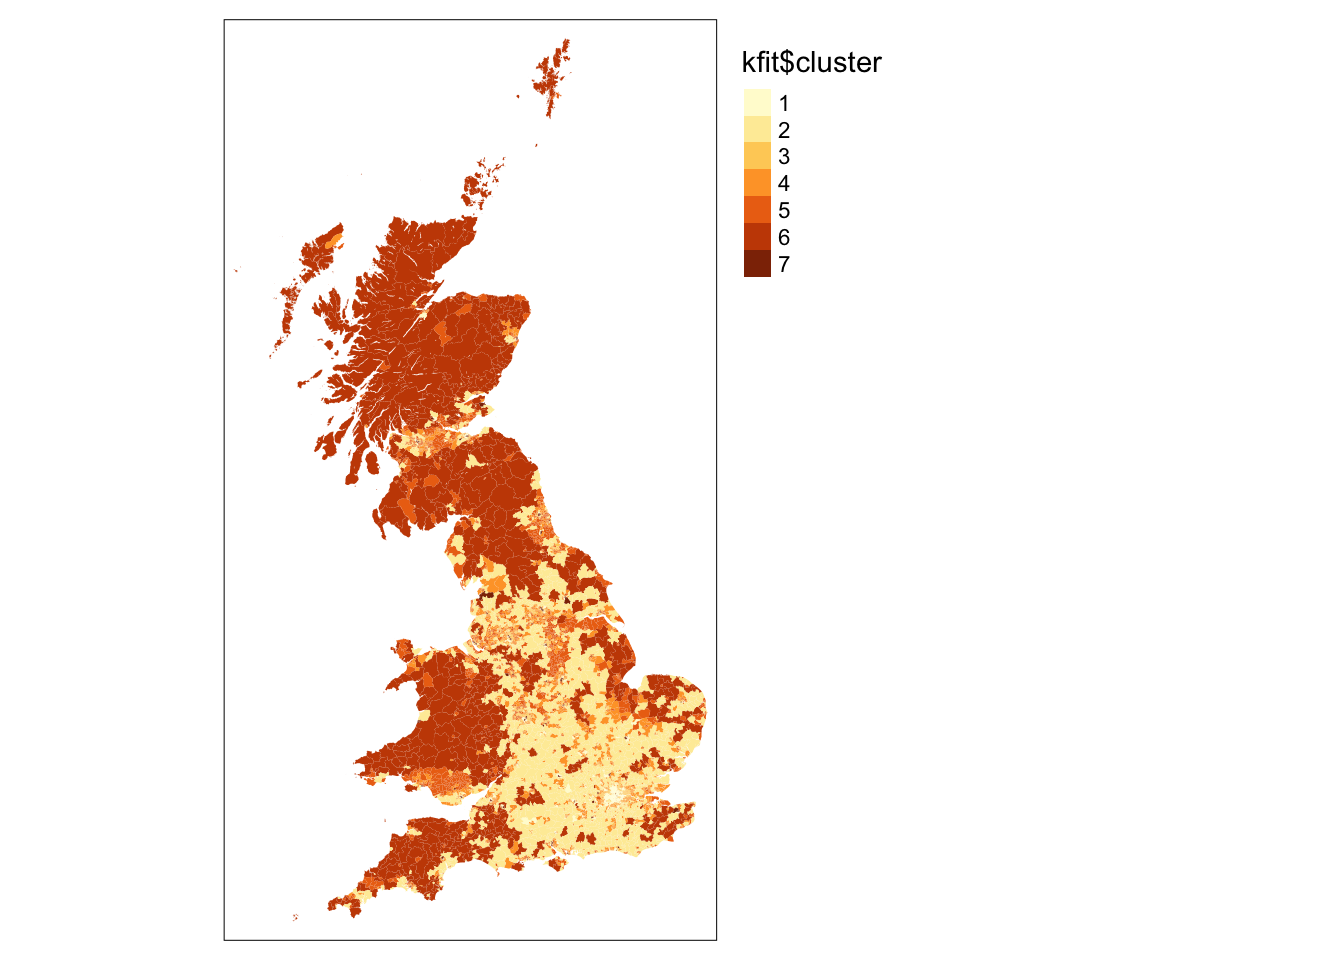
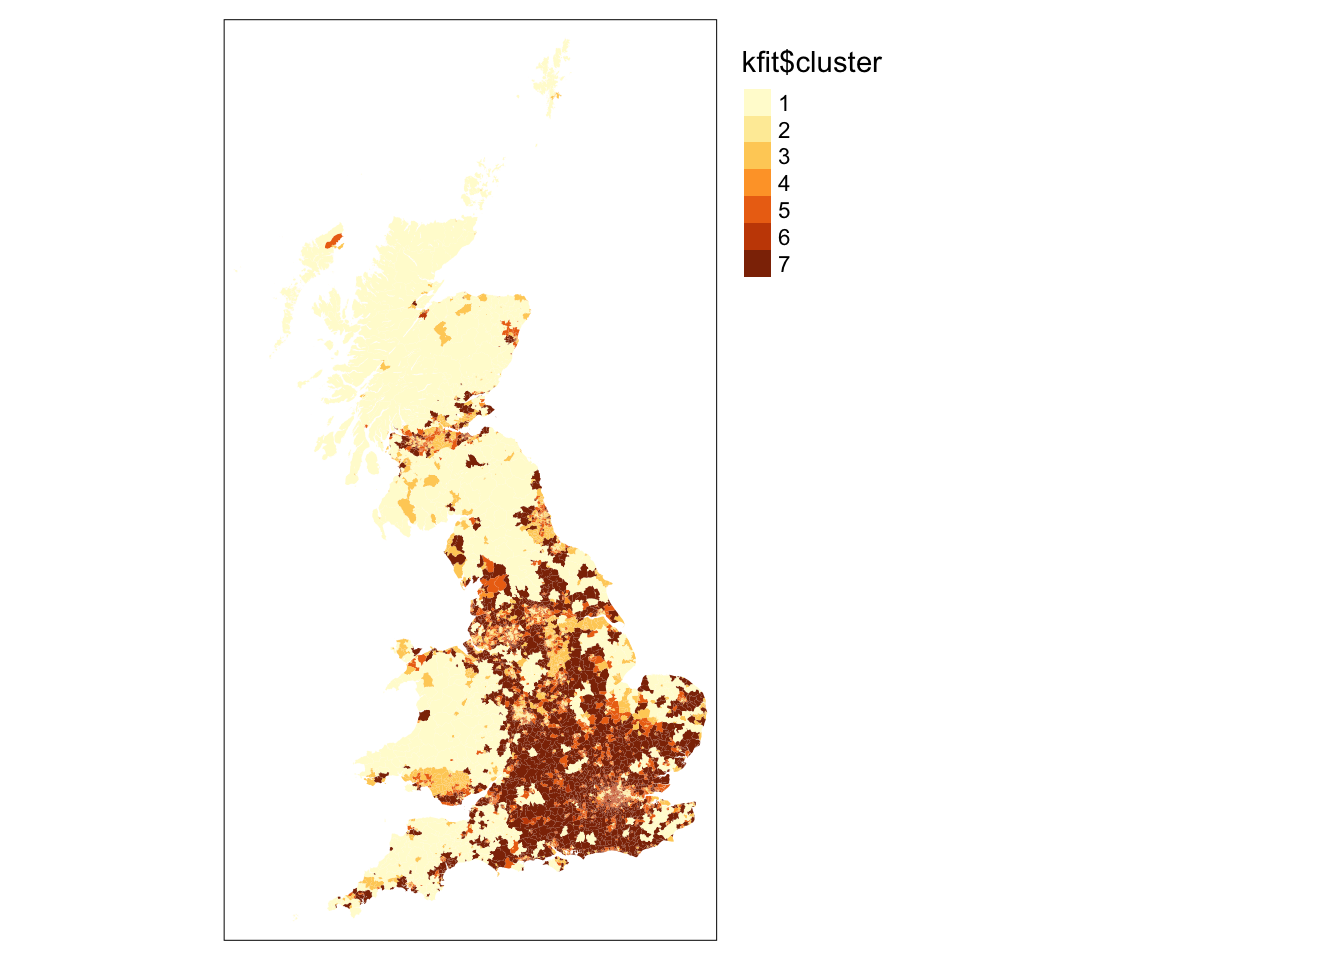
update code layout plots

Changed region(s): [[0.1875, 0.1562, 0.5312, 0.9688], [0.375, 0.0312, 0.4375, 0.125]]

diff --git a/docs/01-geodemographics.html b/docs/01-geodemographics.html
@@ -730,12 +730,16 @@ First 10 features:
 <span id="cb22-6"><a href="#cb22-6" aria-hidden="true" tabindex="-1"></a></span>
 <span id="cb22-7"><a href="#cb22-7" aria-hidden="true" tabindex="-1"></a><span class="co"># add cluster numbers</span></span>
 <span id="cb22-8"><a href="#cb22-8" aria-hidden="true" tabindex="-1"></a>wss_values<span class="sc">$</span>cluster <span class="ot">&lt;-</span> <span class="fu">seq.int</span>(<span class="fu">nrow</span>(wss_values))</span>
-<span id="cb22-9"><a href="#cb22-9" aria-hidden="true" tabindex="-1"></a><span class="fu">names</span>(wss_values) <span class="ot">&lt;-</span> <span class="fu">c</span>(<span class="st">"wss"</span>, <span class="st">"cluster"</span>)</span>
+<span id="cb22-9"><a href="#cb22-9" aria-hidden="true" tabindex="-1"></a><span class="fu">names</span>(wss_values) <span class="ot">&lt;-</span> <span class="fu">c</span>(<span class="st">'wss'</span>,<span class="st">'cluster'</span>)</span>
 <span id="cb22-10"><a href="#cb22-10" aria-hidden="true" tabindex="-1"></a></span>
 <span id="cb22-11"><a href="#cb22-11" aria-hidden="true" tabindex="-1"></a><span class="co"># plot using ggplot2</span></span>
-<span id="cb22-12"><a href="#cb22-12" aria-hidden="true" tabindex="-1"></a><span class="fu">ggplot</span>(<span class="at">data =</span> wss_values, <span class="fu">aes</span>(<span class="at">x =</span> cluster, <span class="at">y =</span> wss)) <span class="sc">+</span> <span class="fu">geom_point</span>() <span class="sc">+</span> <span class="fu">geom_path</span>() <span class="sc">+</span></span>
-<span id="cb22-13"><a href="#cb22-13" aria-hidden="true" tabindex="-1"></a>    <span class="fu">scale_x_continuous</span>(<span class="at">breaks =</span> <span class="fu">seq</span>(<span class="dv">1</span>, <span class="dv">15</span>)) <span class="sc">+</span> <span class="fu">xlab</span>(<span class="st">"Number of clusters"</span>) <span class="sc">+</span> <span class="fu">ylab</span>(<span class="st">"Within sum of squares"</span>) <span class="sc">+</span></span>
-<span id="cb22-14"><a href="#cb22-14" aria-hidden="true" tabindex="-1"></a>    <span class="fu">theme_minimal</span>()</span></code><button title="Copy to Clipboard" class="code-copy-button"><i class="bi"></i></button></pre></div>
+<span id="cb22-12"><a href="#cb22-12" aria-hidden="true" tabindex="-1"></a><span class="fu">ggplot</span>(<span class="at">data=</span>wss_values, <span class="fu">aes</span>(<span class="at">x=</span>cluster,<span class="at">y=</span>wss)) <span class="sc">+</span></span>
+<span id="cb22-13"><a href="#cb22-13" aria-hidden="true" tabindex="-1"></a>  <span class="fu">geom_point</span>() <span class="sc">+</span></span>
+<span id="cb22-14"><a href="#cb22-14" aria-hidden="true" tabindex="-1"></a>  <span class="fu">geom_path</span>() <span class="sc">+</span> </span>
+<span id="cb22-15"><a href="#cb22-15" aria-hidden="true" tabindex="-1"></a>  <span class="fu">scale_x_continuous</span>(<span class="at">breaks=</span><span class="fu">seq</span>(<span class="dv">1</span>,<span class="dv">15</span>)) <span class="sc">+</span></span>
+<span id="cb22-16"><a href="#cb22-16" aria-hidden="true" tabindex="-1"></a>  <span class="fu">xlab</span>(<span class="st">'Number of clusters'</span>) <span class="sc">+</span></span>
+<span id="cb22-17"><a href="#cb22-17" aria-hidden="true" tabindex="-1"></a>  <span class="fu">ylab</span>(<span class="st">'Within sum of squares'</span>) <span class="sc">+</span></span>
+<span id="cb22-18"><a href="#cb22-18" aria-hidden="true" tabindex="-1"></a>  <span class="fu">theme_minimal</span>()</span></code><button title="Copy to Clipboard" class="code-copy-button"><i class="bi"></i></button></pre></div>
 </div>
 <div class="cell-output-display">
 <div id="fig-geo-variables-that-cluster" class="quarto-figure quarto-figure-center anchored">
@@ -803,7 +807,7 @@ First 10 features:
 <div class="sourceCode cell-code" id="cb25"><pre class="sourceCode r code-with-copy"><code class="sourceCode r"><span id="cb25-1"><a href="#cb25-1" aria-hidden="true" tabindex="-1"></a><span class="co"># inspect</span></span>
 <span id="cb25-2"><a href="#cb25-2" aria-hidden="true" tabindex="-1"></a>clusters</span></code><button title="Copy to Clipboard" class="code-copy-button"><i class="bi"></i></button></pre></div>
 <div class="cell-output cell-output-stdout">
-<pre><code>K-means clustering with 7 clusters of sizes 740, 1814, 1107, 2039, 2053, 541, 186
+<pre><code>K-means clustering with 7 clusters of sizes 541, 1107, 2053, 186, 2039, 740, 1814
 
 Cluster means:
      age0to4pc  age5to14pc age16to24pc age25to44pc age45to64pc age75pluspc
@@ -813,11 +817,11 @@ Cluster means:
  [ reached getOption("max.print") -- omitted 7 rows ]
 
 Clustering vector:
-[1] 1 3 4 4 3
+[1] 6 2 5 5 2
  [ reached getOption("max.print") -- omitted 8475 entries ]
 
 Within cluster sum of squares by cluster:
-[1]  7786.692 12871.008  9429.647 11471.872 11736.830
+[1]  6265.986  9429.647 11736.830  3401.821 11471.872
  [ reached getOption("max.print") -- omitted 2 entries ]
  (between_SS / total_SS =  56.3 %)
 
@@ -843,7 +847,7 @@ Available components:
 <span id="cb27-8"><a href="#cb27-8" aria-hidden="true" tabindex="-1"></a>kfit_size</span></code><button title="Copy to Clipboard" class="code-copy-button"><i class="bi"></i></button></pre></div>
 </div>
 <div class="cell-output cell-output-stdout">
-<pre><code>[1]  740 1814 1107 2039 2053
+<pre><code>[1]  541 1107 2053  186 2039
  [ reached getOption("max.print") -- omitted 2 entries ]</code></pre>
 </div>
 <div class="sourceCode cell-code" id="cb29"><pre class="sourceCode r code-with-copy"><code class="sourceCode r"><span id="cb29-1"><a href="#cb29-1" aria-hidden="true" tabindex="-1"></a><span class="co"># mean values for each variable in each cluster</span></span>
@@ -856,13 +860,13 @@ Available components:
 <pre><code># A tibble: 7 × 18
   cluster age0to4pc age5to14pc age16to…¹ age25…² age45…³ age75…⁴ 1_hig…⁵ 2_low…⁶
     &lt;int&gt;     &lt;dbl&gt;      &lt;dbl&gt;     &lt;dbl&gt;   &lt;dbl&gt;   &lt;dbl&gt;   &lt;dbl&gt;   &lt;dbl&gt;   &lt;dbl&gt;
-1       1   0.326      -0.923     0.209   2.05   -1.23    -0.927  1.50     1.26 
-2       2  -0.679      -0.0412   -0.465  -0.773   0.765    0.856  0.845    0.893
-3       3   1.56        1.14      0.381   0.626  -1.13    -0.954 -0.906   -1.26 
-4       4   0.0162      0.118    -0.172   0.0189  0.202   -0.103 -0.0481   0.211
-5       5  -0.00815    -0.0824   -0.0526 -0.158   0.0919   0.164 -0.837   -0.849
-6       6  -0.880      -0.148    -0.523  -0.998   1.22     0.554  0.0251   0.225
-7       7  -1.52       -2.68      5.42    0.113  -2.62    -1.28   0.870    0.223
+1       1  -0.880      -0.148    -0.523  -0.998   1.22     0.554  0.0251   0.225
+2       2   1.56        1.14      0.381   0.626  -1.13    -0.954 -0.906   -1.26 
+3       3  -0.00815    -0.0824   -0.0526 -0.158   0.0919   0.164 -0.837   -0.849
+4       4  -1.52       -2.68      5.42    0.113  -2.62    -1.28   0.870    0.223
+5       5   0.0162      0.118    -0.172   0.0189  0.202   -0.103 -0.0481   0.211
+6       6   0.326      -0.923     0.209   2.05   -1.23    -0.927  1.50     1.26 
+7       7  -0.679      -0.0412   -0.465  -0.773   0.765    0.856  0.845    0.893
 # … with 9 more variables: `3_intermediate_occupations` &lt;dbl&gt;,
 #   `4_employers_small_org` &lt;dbl&gt;, `5_lower_supervisory` &lt;dbl&gt;,
 #   `6_semi_routine` &lt;dbl&gt;, `7_routine` &lt;dbl&gt;, `8_unemployed` &lt;dbl&gt;,
@@ -877,13 +881,17 @@ Available components:
 <pre><strong>R code</strong></pre>
 </div>
 <div class="sourceCode cell-code" id="cb31"><pre class="sourceCode r code-with-copy"><code class="sourceCode r"><span id="cb31-1"><a href="#cb31-1" aria-hidden="true" tabindex="-1"></a><span class="co"># transform shape to tidy format</span></span>
-<span id="cb31-2"><a href="#cb31-2" aria-hidden="true" tabindex="-1"></a>kfit_mean_long <span class="ot">&lt;-</span> <span class="fu">pivot_longer</span>(kfit_mean, <span class="at">cols =</span> (<span class="sc">-</span>cluster))</span>
+<span id="cb31-2"><a href="#cb31-2" aria-hidden="true" tabindex="-1"></a>kfit_mean_long <span class="ot">&lt;-</span> <span class="fu">pivot_longer</span>(kfit_mean, <span class="at">cols=</span>(<span class="sc">-</span>cluster))</span>
 <span id="cb31-3"><a href="#cb31-3" aria-hidden="true" tabindex="-1"></a></span>
-<span id="cb31-4"><a href="#cb31-4" aria-hidden="true" tabindex="-1"></a><span class="co"># plot using ggplot2</span></span>
-<span id="cb31-5"><a href="#cb31-5" aria-hidden="true" tabindex="-1"></a><span class="fu">ggplot</span>(kfit_mean_long, <span class="fu">aes</span>(<span class="at">x =</span> cluster, <span class="at">y =</span> value, <span class="at">fill =</span> name)) <span class="sc">+</span> <span class="fu">geom_bar</span>(<span class="at">stat =</span> <span class="st">"identity"</span>,</span>
-<span id="cb31-6"><a href="#cb31-6" aria-hidden="true" tabindex="-1"></a>    <span class="at">position =</span> <span class="st">"dodge"</span>) <span class="sc">+</span> <span class="fu">scale_x_continuous</span>(<span class="at">breaks =</span> <span class="fu">seq</span>(<span class="dv">1</span>, <span class="dv">7</span>, <span class="at">by =</span> <span class="dv">1</span>)) <span class="sc">+</span> <span class="fu">xlab</span>(<span class="st">"Cluster"</span>) <span class="sc">+</span></span>
-<span id="cb31-7"><a href="#cb31-7" aria-hidden="true" tabindex="-1"></a>    <span class="fu">ylab</span>(<span class="st">"Mean value"</span>) <span class="sc">+</span> <span class="fu">theme_minimal</span>() <span class="sc">+</span> <span class="fu">theme</span>(<span class="at">legend.title =</span> <span class="fu">element_blank</span>(),</span>
-<span id="cb31-8"><a href="#cb31-8" aria-hidden="true" tabindex="-1"></a>    <span class="at">legend.position =</span> <span class="st">"bottom"</span>)</span></code><button title="Copy to Clipboard" class="code-copy-button"><i class="bi"></i></button></pre></div>
+<span id="cb31-4"><a href="#cb31-4" aria-hidden="true" tabindex="-1"></a><span class="co"># plot using ggplot2  </span></span>
+<span id="cb31-5"><a href="#cb31-5" aria-hidden="true" tabindex="-1"></a><span class="fu">ggplot</span>(kfit_mean_long, <span class="fu">aes</span>(<span class="at">x=</span>cluster, <span class="at">y=</span>value, <span class="at">fill=</span>name)) <span class="sc">+</span> </span>
+<span id="cb31-6"><a href="#cb31-6" aria-hidden="true" tabindex="-1"></a>  <span class="fu">geom_bar</span>(<span class="at">stat=</span><span class="st">'identity'</span>, <span class="at">position=</span><span class="st">"dodge"</span>) <span class="sc">+</span></span>
+<span id="cb31-7"><a href="#cb31-7" aria-hidden="true" tabindex="-1"></a>  <span class="fu">scale_x_continuous</span>(<span class="at">breaks=</span><span class="fu">seq</span>(<span class="dv">1</span>,<span class="dv">7</span>,<span class="at">by=</span><span class="dv">1</span>)) <span class="sc">+</span></span>
+<span id="cb31-8"><a href="#cb31-8" aria-hidden="true" tabindex="-1"></a>  <span class="fu">xlab</span>(<span class="st">'Cluster'</span>) <span class="sc">+</span></span>
+<span id="cb31-9"><a href="#cb31-9" aria-hidden="true" tabindex="-1"></a>  <span class="fu">ylab</span>(<span class="st">'Mean value'</span>) <span class="sc">+</span></span>
+<span id="cb31-10"><a href="#cb31-10" aria-hidden="true" tabindex="-1"></a>  <span class="fu">theme_minimal</span>() <span class="sc">+</span></span>
+<span id="cb31-11"><a href="#cb31-11" aria-hidden="true" tabindex="-1"></a>  <span class="fu">theme</span>(<span class="at">legend.title =</span> <span class="fu">element_blank</span>(),</span>
+<span id="cb31-12"><a href="#cb31-12" aria-hidden="true" tabindex="-1"></a>       <span class="at">legend.position =</span> <span class="st">"bottom"</span>)</span></code><button title="Copy to Clipboard" class="code-copy-button"><i class="bi"></i></button></pre></div>
 </div>
 <div class="cell-output-display">
 <div id="fig-geo-plot-those-clusters-with-a-graph" class="quarto-figure quarto-figure-center anchored">
@@ -910,11 +918,14 @@ Available components:
 <div class="code-with-filename-file">
 <pre><strong>R code</strong></pre>
 </div>
-<div class="sourceCode cell-code" id="cb32"><pre class="sourceCode r code-with-copy"><code class="sourceCode r"><span id="cb32-1"><a href="#cb32-1" aria-hidden="true" tabindex="-1"></a><span class="co"># plot using ggplot2</span></span>
-<span id="cb32-2"><a href="#cb32-2" aria-hidden="true" tabindex="-1"></a><span class="fu">ggplot</span>(kfit_mean_long[kfit_mean_long<span class="sc">$</span>cluster <span class="sc">==</span> <span class="dv">1</span>, ], <span class="fu">aes</span>(<span class="at">x =</span> cluster, <span class="at">y =</span> value,</span>
-<span id="cb32-3"><a href="#cb32-3" aria-hidden="true" tabindex="-1"></a>    <span class="at">fill =</span> name)) <span class="sc">+</span> <span class="fu">geom_bar</span>(<span class="at">stat =</span> <span class="st">"identity"</span>, <span class="at">position =</span> <span class="st">"dodge"</span>) <span class="sc">+</span> <span class="fu">xlab</span>(<span class="st">"Cluster"</span>) <span class="sc">+</span></span>
-<span id="cb32-4"><a href="#cb32-4" aria-hidden="true" tabindex="-1"></a>    <span class="fu">ylab</span>(<span class="st">"Mean value"</span>) <span class="sc">+</span> <span class="fu">theme_minimal</span>() <span class="sc">+</span> <span class="fu">theme</span>(<span class="at">legend.title =</span> <span class="fu">element_blank</span>(),</span>
-<span id="cb32-5"><a href="#cb32-5" aria-hidden="true" tabindex="-1"></a>    <span class="at">legend.position =</span> <span class="st">"bottom"</span>)</span></code><button title="Copy to Clipboard" class="code-copy-button"><i class="bi"></i></button></pre></div>
+<div class="sourceCode cell-code" id="cb32"><pre class="sourceCode r code-with-copy"><code class="sourceCode r"><span id="cb32-1"><a href="#cb32-1" aria-hidden="true" tabindex="-1"></a><span class="co"># plot using ggplot2  </span></span>
+<span id="cb32-2"><a href="#cb32-2" aria-hidden="true" tabindex="-1"></a><span class="fu">ggplot</span>(kfit_mean_long[kfit_mean_long<span class="sc">$</span>cluster<span class="sc">==</span><span class="dv">1</span>,], <span class="fu">aes</span>(<span class="at">x=</span>cluster, <span class="at">y=</span>value, <span class="at">fill=</span>name)) <span class="sc">+</span> </span>
+<span id="cb32-3"><a href="#cb32-3" aria-hidden="true" tabindex="-1"></a>  <span class="fu">geom_bar</span>(<span class="at">stat=</span><span class="st">'identity'</span>, <span class="at">position=</span><span class="st">"dodge"</span>) <span class="sc">+</span></span>
+<span id="cb32-4"><a href="#cb32-4" aria-hidden="true" tabindex="-1"></a>  <span class="fu">xlab</span>(<span class="st">'Cluster'</span>) <span class="sc">+</span></span>
+<span id="cb32-5"><a href="#cb32-5" aria-hidden="true" tabindex="-1"></a>  <span class="fu">ylab</span>(<span class="st">'Mean value'</span>) <span class="sc">+</span></span>
+<span id="cb32-6"><a href="#cb32-6" aria-hidden="true" tabindex="-1"></a>  <span class="fu">theme_minimal</span>() <span class="sc">+</span></span>
+<span id="cb32-7"><a href="#cb32-7" aria-hidden="true" tabindex="-1"></a>  <span class="fu">theme</span>(<span class="at">legend.title =</span> <span class="fu">element_blank</span>(),</span>
+<span id="cb32-8"><a href="#cb32-8" aria-hidden="true" tabindex="-1"></a>       <span class="at">legend.position =</span> <span class="st">"bottom"</span>)</span></code><button title="Copy to Clipboard" class="code-copy-button"><i class="bi"></i></button></pre></div>
 </div>
 <div class="cell-output-display">
 <div id="fig-geo-plot-those-clusters-with-a-graph-just-one" class="quarto-figure quarto-figure-center anchored">
